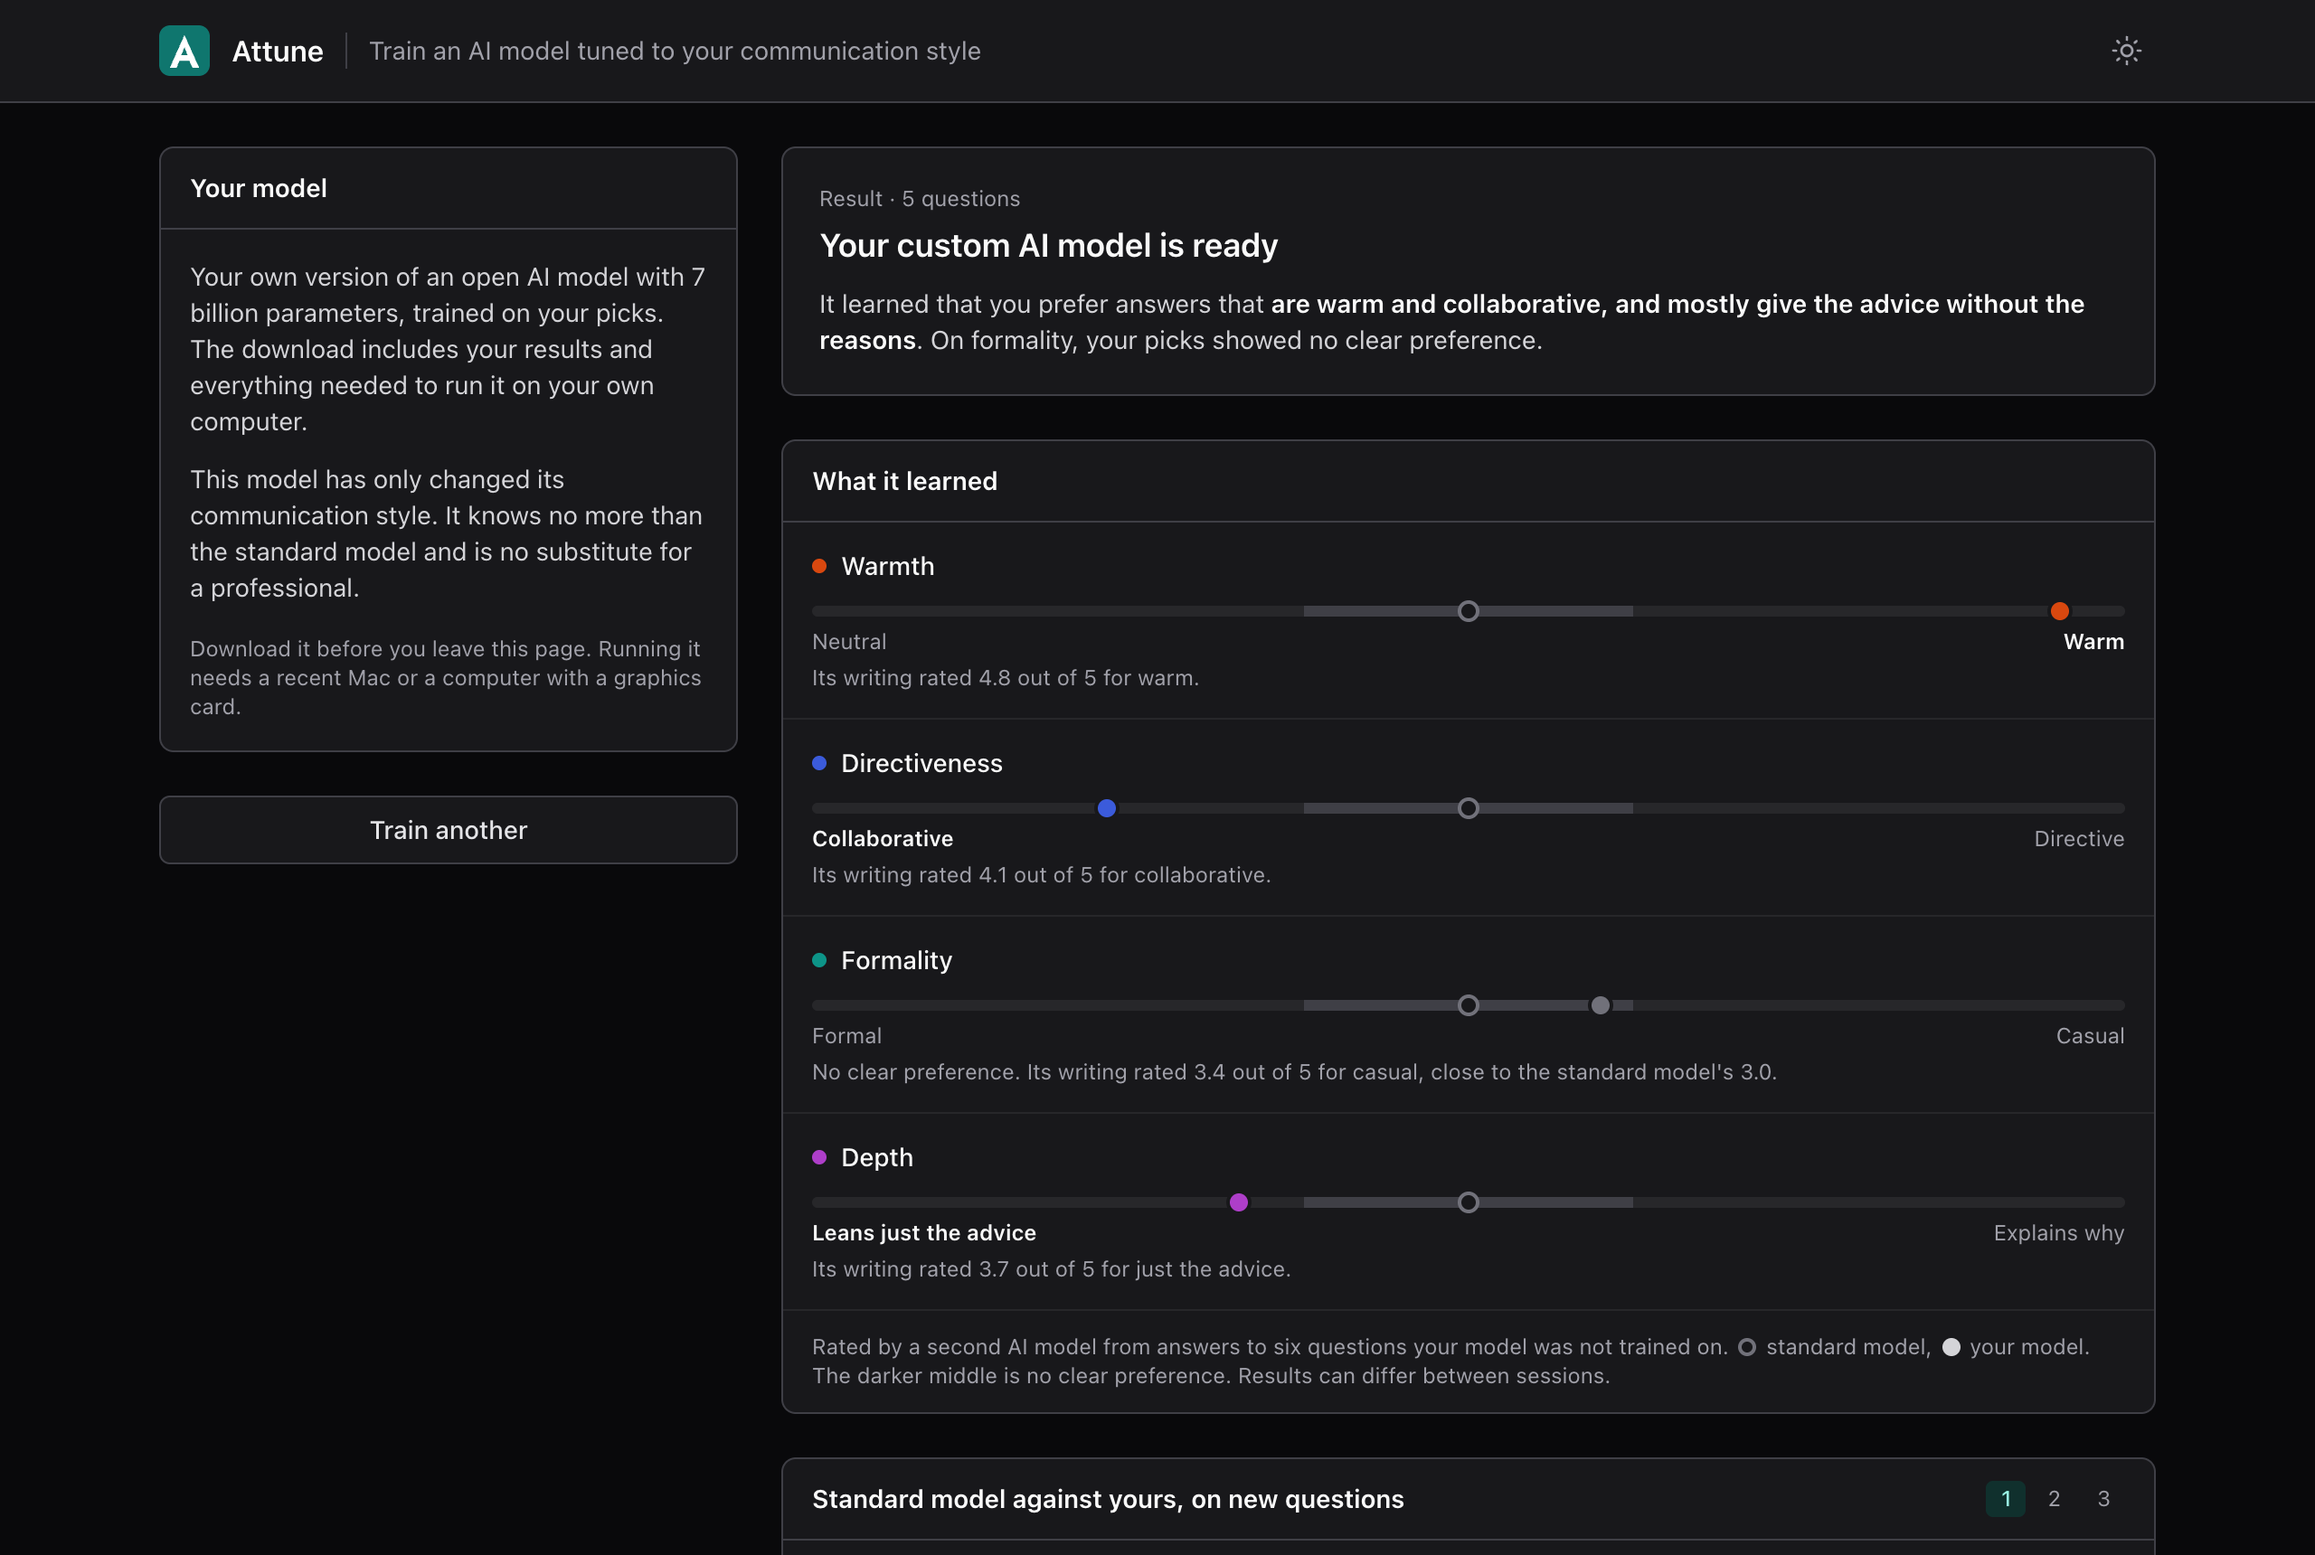
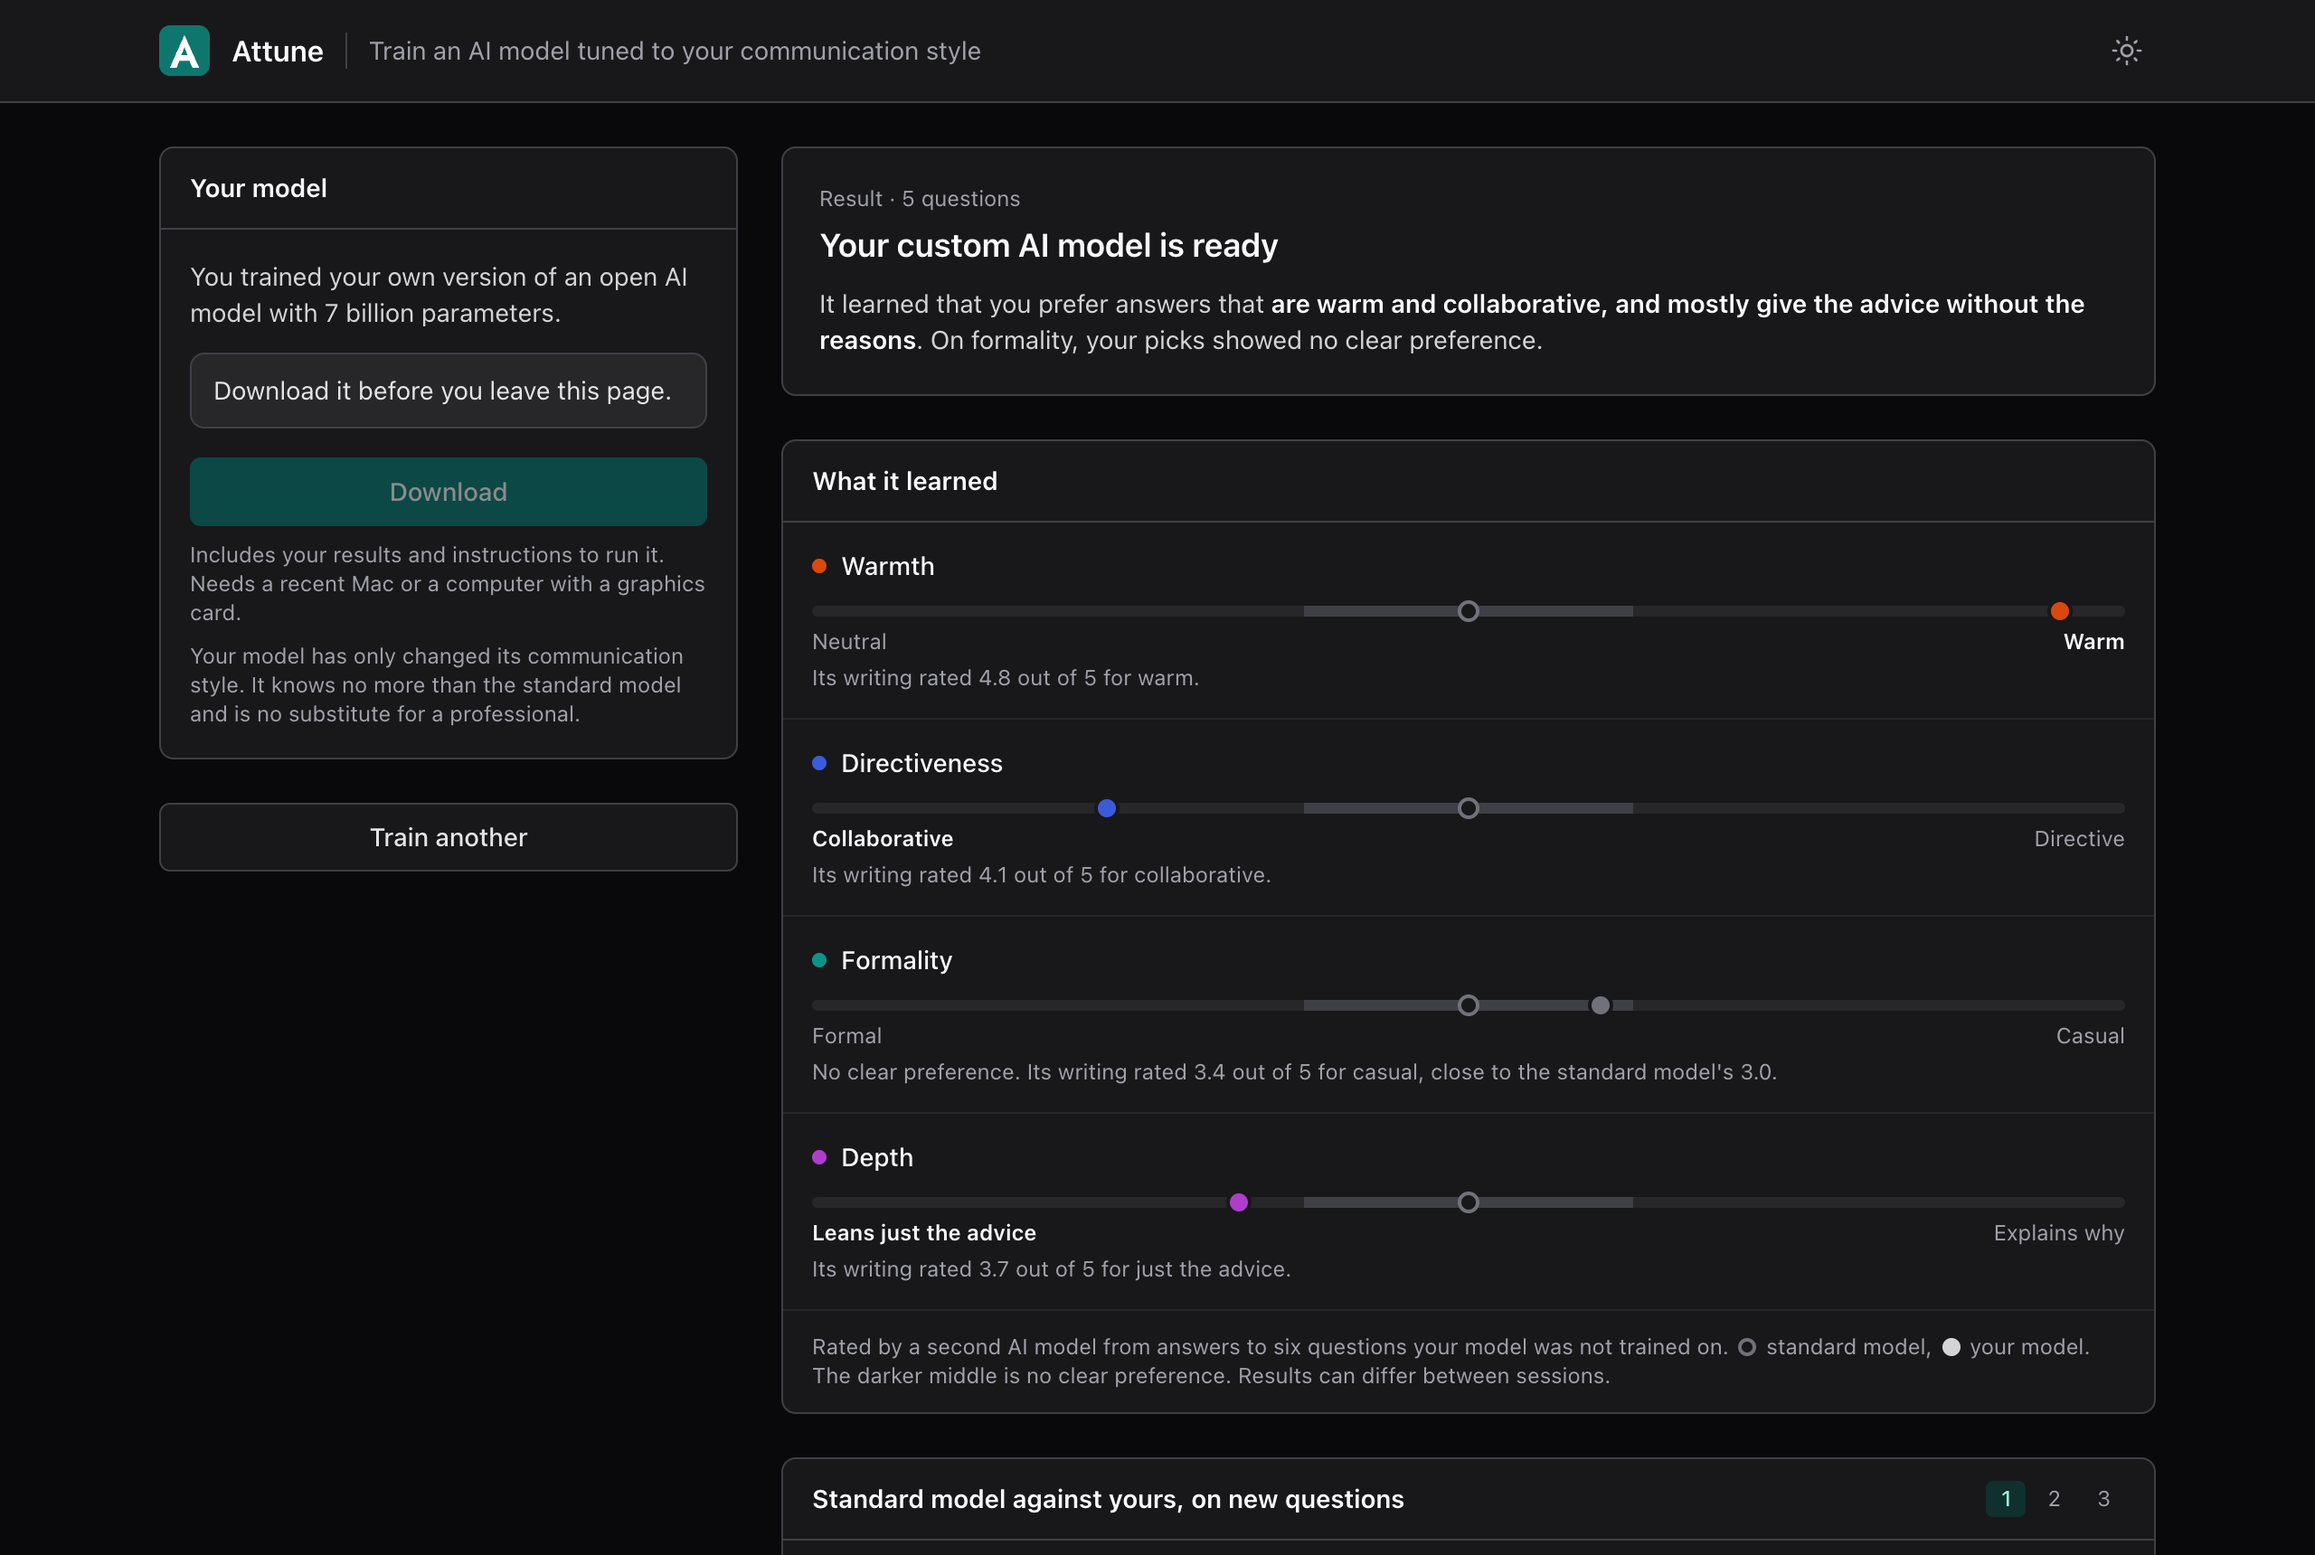
Model card: download reminder as the alert, disclaimer in small print

Changed region(s): [[0.0625, 0.1541, 0.3125, 0.493], [0.1562, 0.5238, 0.2188, 0.5547]]

diff --git a/app/frontend/src/screens/Results.tsx b/app/frontend/src/screens/Results.tsx
@@ -156,15 +156,16 @@ function ModelCard({ session, mock }: { session: string; mock: boolean }) {
     <section className="panel" aria-labelledby="model">
       <h2 id="model" className="panel-title border-b border-gray-200 px-4 py-3">Your model</h2>
       <div className="p-4">
-        <p className="text-gray-600">Your own version of an open AI model with 7 billion parameters, trained on your picks. The download includes your results and everything needed to run it on your own computer.</p>
-        <p className="mt-3 text-gray-600">This model has only changed its communication style. It knows no more than the standard model and is no substitute for a professional.</p>
+        <p className="text-gray-600">You trained your own version of an open AI model with 7 billion parameters.</p>
+        <p className="mt-3 rounded-lg border border-gray-200 bg-gray-50 px-3 py-2.5 text-gray-700">Download it before you leave this page.</p>
         <div className="mt-4">
-          {mock ? <p className="hint">Downloads are switched off in demo mode.</p>
+          {mock ? <><button className="btn btn-primary w-full" disabled>Download</button><p className="hint mt-2">Downloads are switched off in demo mode.</p></>
             : status?.configured === false ? <p className="hint">Downloads are not set up on this server.</p>
             : status?.ready ? <a className="btn btn-primary w-full" href={api.modelUrl(session)} download>Download{megabytes && ` (${megabytes})`}</a>
             : gaveUp ? <p className="text-red-700" role="alert">The model could not be packaged this time. Your results are unaffected.</p>
             : <button className="btn btn-primary w-full" disabled><Spinner />Packaging the model</button>}
-          <p className="hint mt-2">Download it before you leave this page. Running it needs a recent Mac or a computer with a graphics card.</p>
+          <p className="hint mt-2">Includes your results and instructions to run it. Needs a recent Mac or a computer with a graphics card.</p>
+          <p className="hint mt-2">Your model has only changed its communication style. It knows no more than the standard model and is no substitute for a professional.</p>
         </div>
       </div>
     </section>
